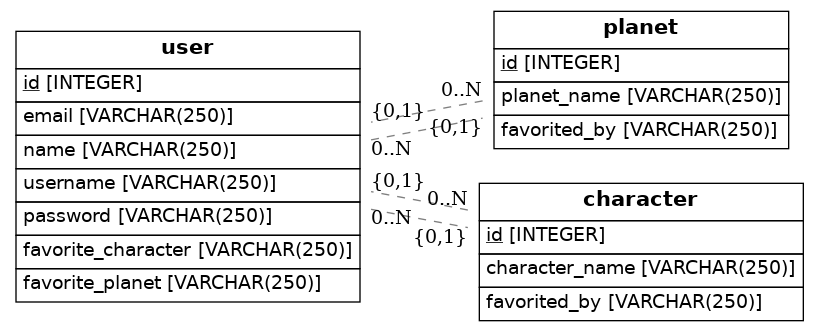
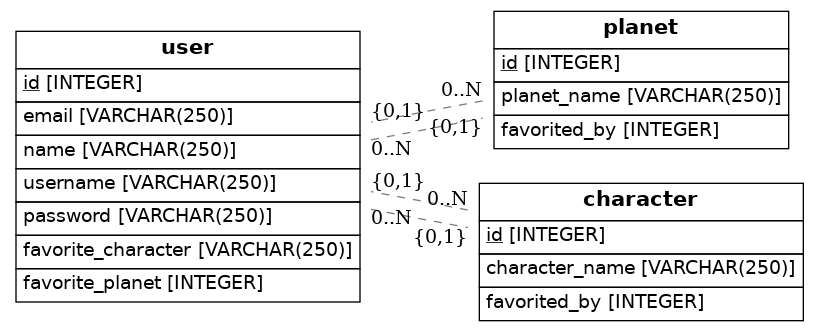
final corrections

Changed region(s): [[0.7326, 0.8761, 0.9463, 0.9366], [0.7631, 0.3625, 0.9463, 0.423], [0.2137, 0.8157, 0.3968, 0.8761]]

diff --git a/src/models.py b/src/models.py
@@ -17,21 +17,21 @@ class User(Base):
     username = Column(String(250), nullable=False)
     password = Column(String(250), nullable=False)
     favorite_character = Column(String(250), ForeignKey('character.id'))
-    favorite_planet = Column(String(250), ForeignKey('planet.id'))
+    favorite_planet = Column(Integer, ForeignKey('planet.id'))
 
 ##Planet Table
 class Planet(Base):
     __tablename__ = 'planet'
     id = Column(Integer, primary_key=True)
     planet_name = Column(String(250), nullable=False)
-    favorited_by = Column(String(250), ForeignKey('user.id'))
+    favorited_by = Column(Integer, ForeignKey('user.id'))
 
 ##Character Table
 class Character(Base):
     __tablename__ = "character"
     id = Column(Integer, primary_key=True)
     character_name = Column(String(250), nullable=False)
-    favorited_by = Column(String(250), ForeignKey('user.id'))
+    favorited_by = Column(Integer, ForeignKey('user.id'))
 
     def to_dict(self):
         return {}
